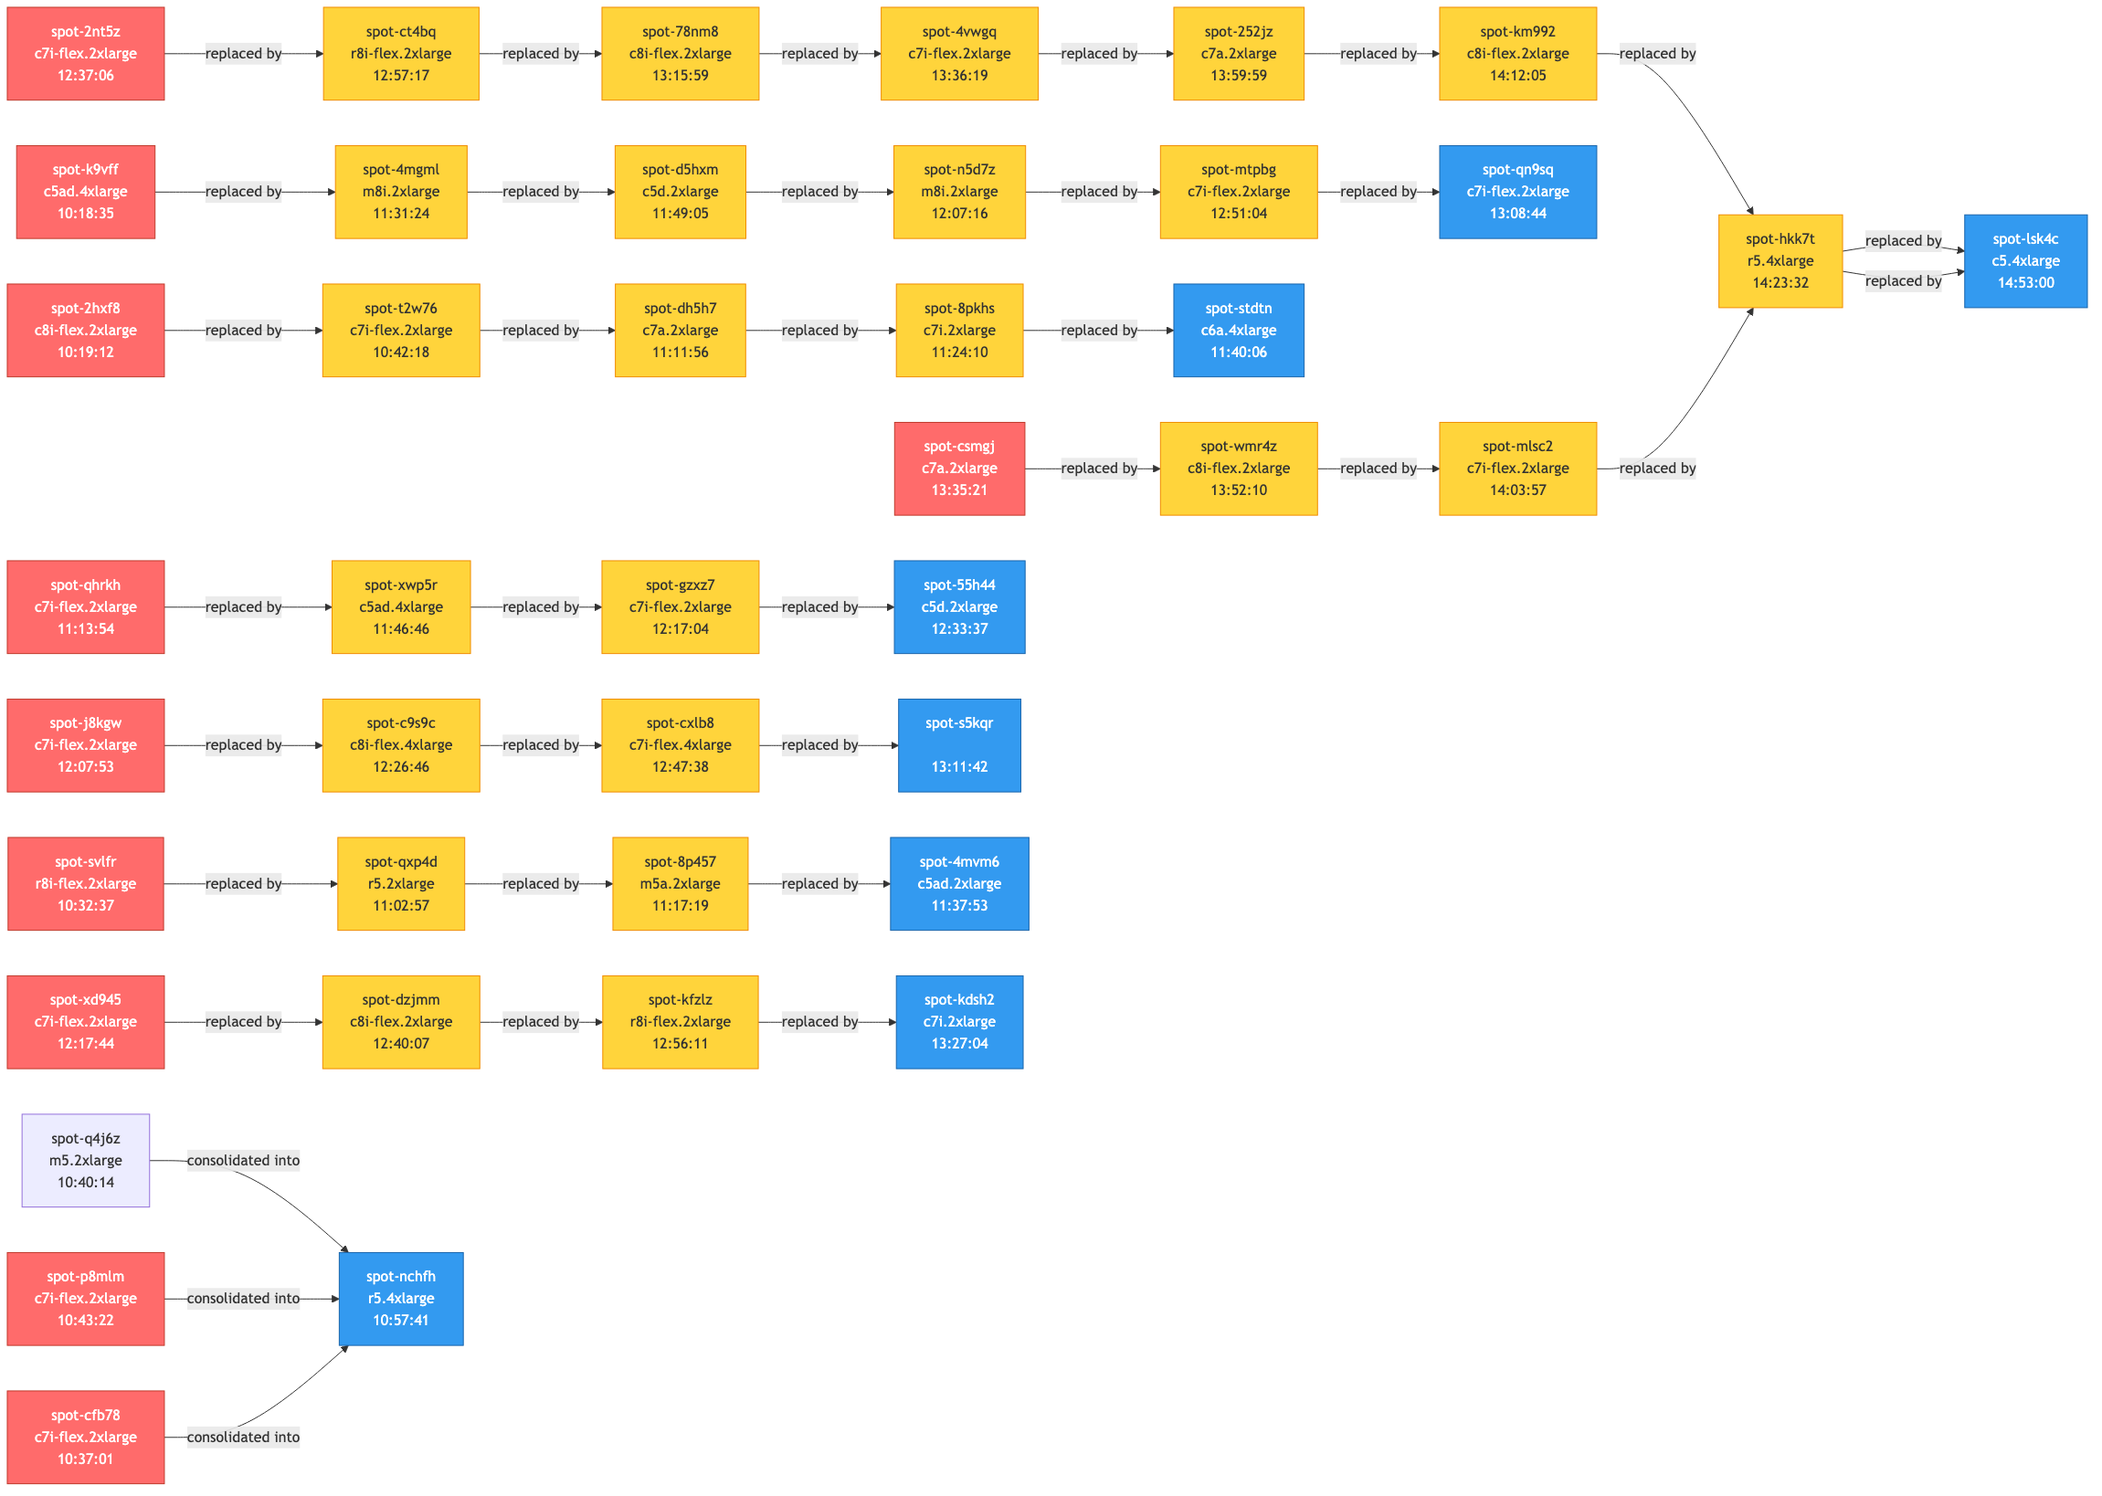
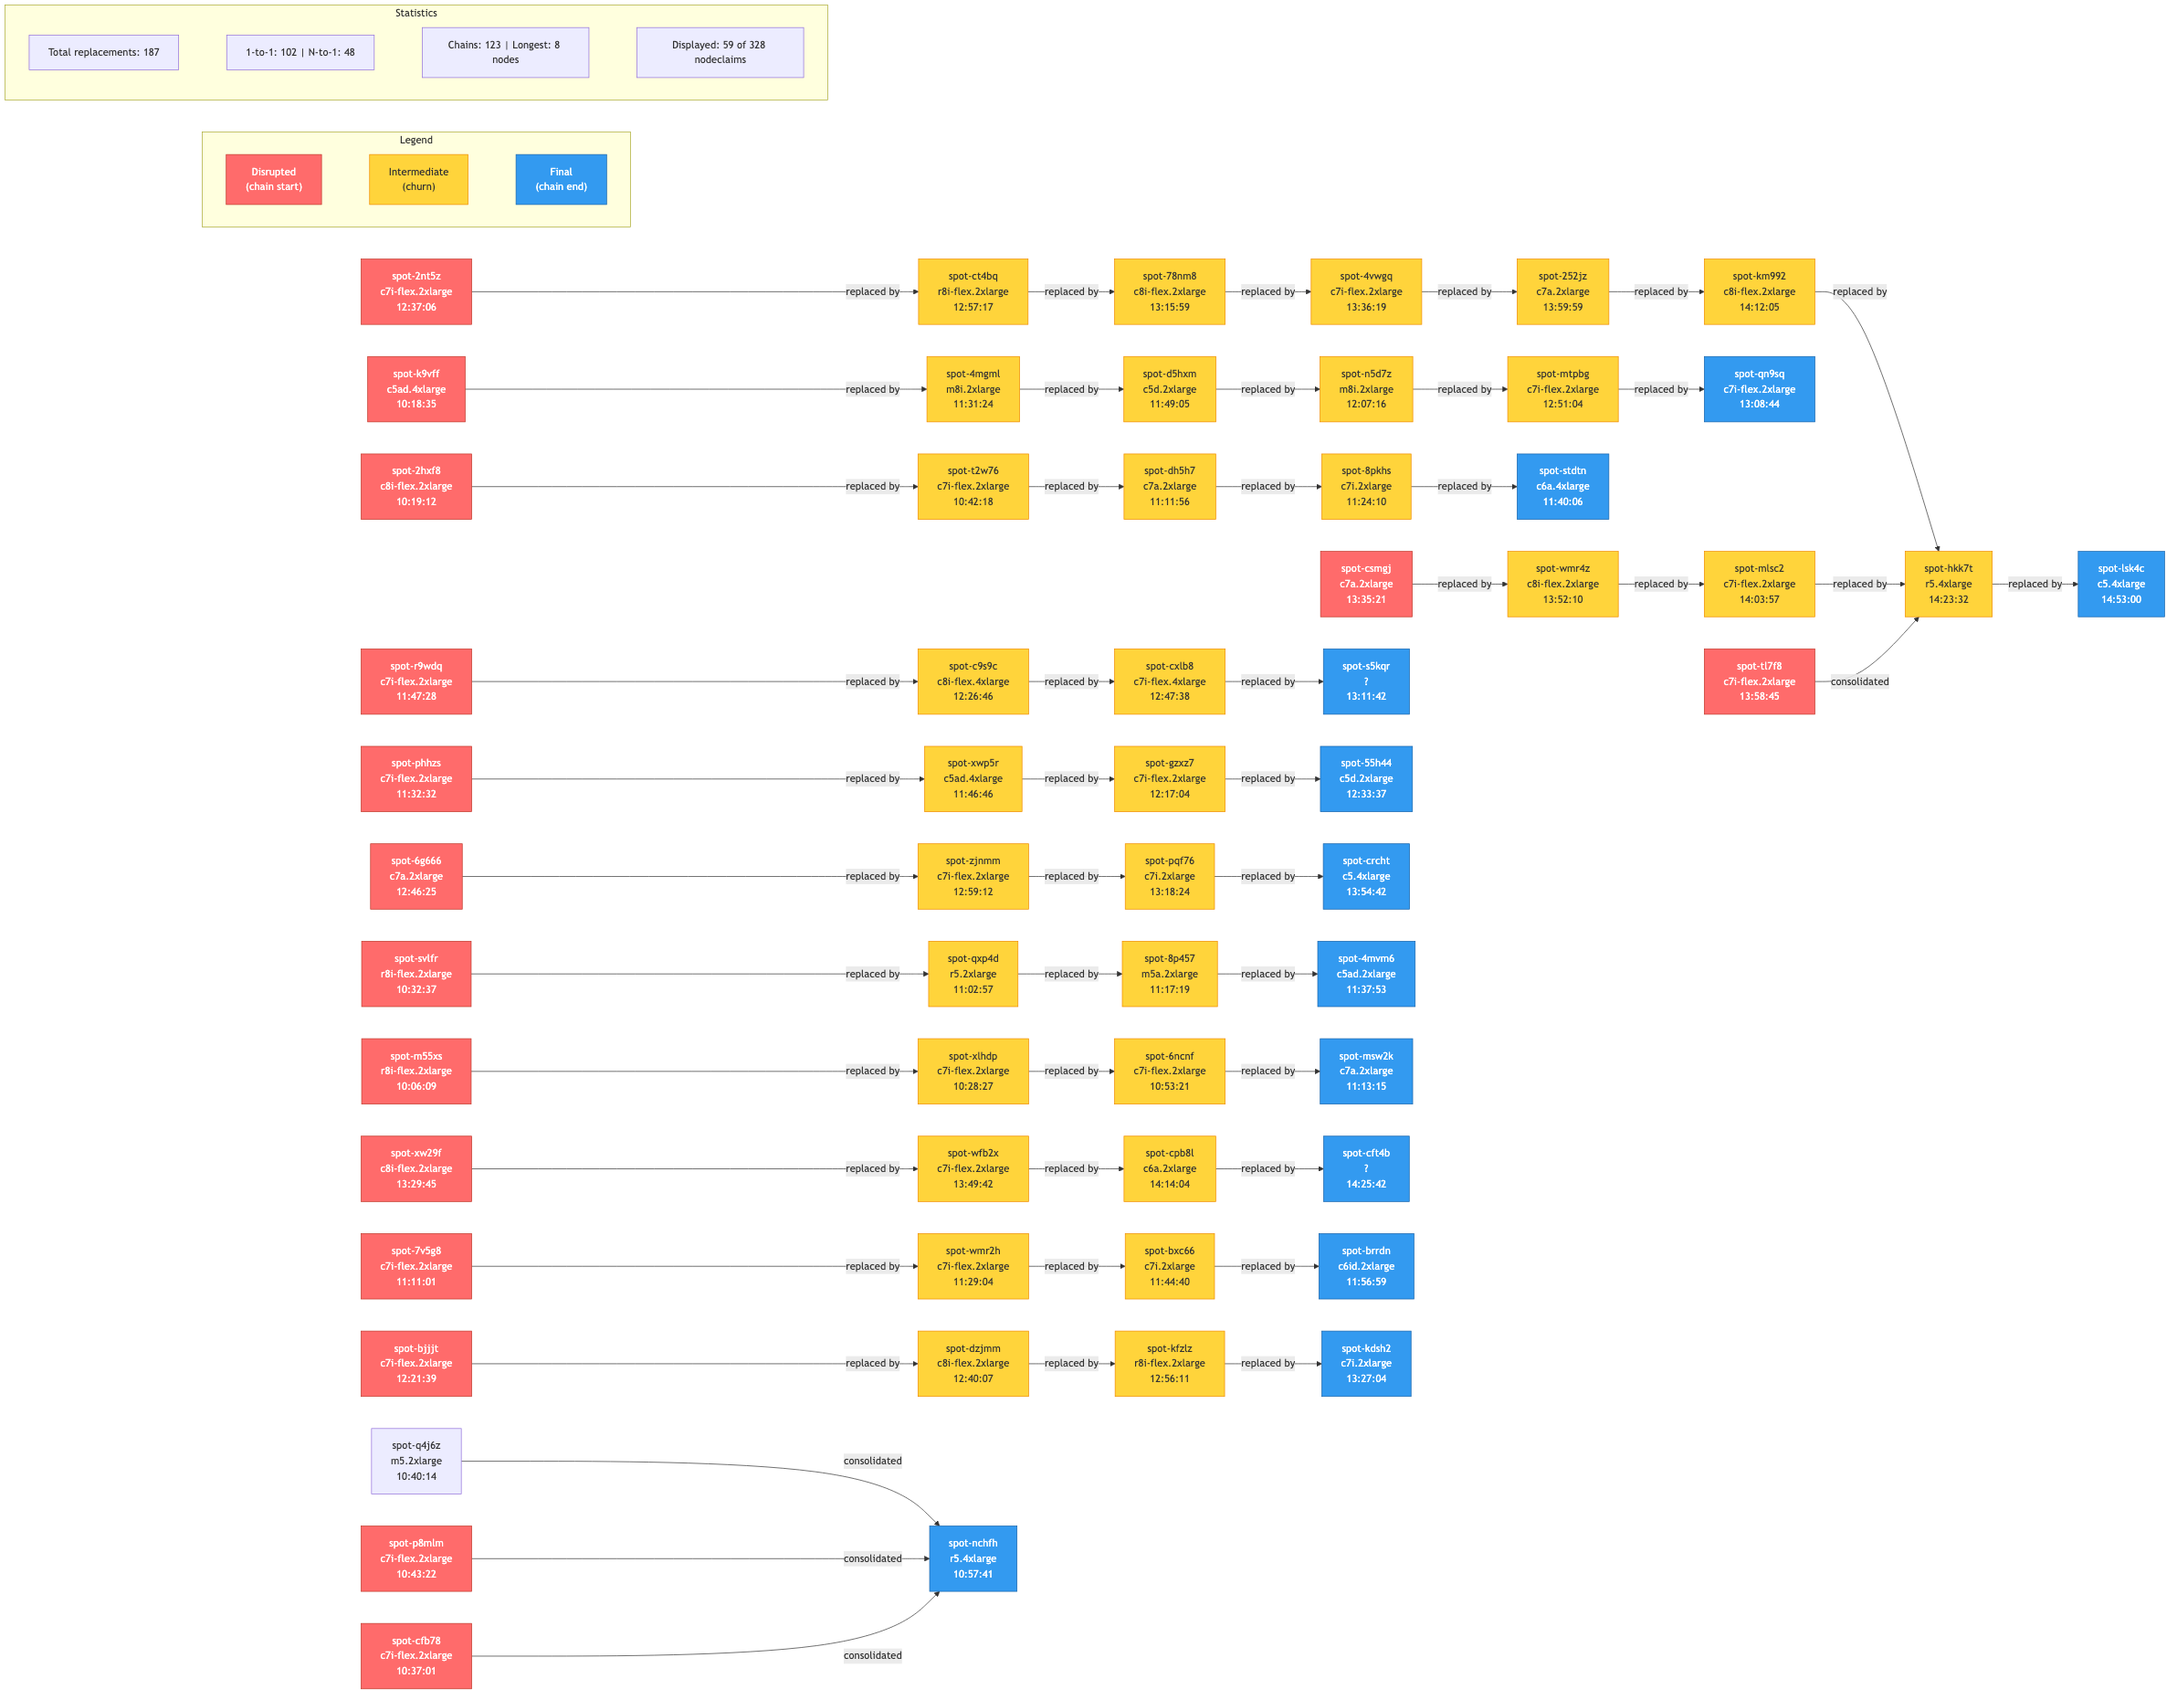
feat: add filtering flags, legend, stats, and edge deduplication to lp4kchain
Add --min-length, --max-chains, and --all flags to control which chains
are displayed. Include a color legend and statistics table in the diagram.
Fix duplicate edges when multiple chains share common segments.
Fix N-to-1 consolidation section to only show genuine multi-source merges.

diff --git a/tools/lp4kchain/main.go b/tools/lp4kchain/main.go
@@ -4,6 +4,7 @@ package main
 
 import (
 	"encoding/csv"
+	"flag"
 	"fmt"
 	"io"
 	"os"
@@ -12,32 +13,45 @@ import (
 )
 
 func main() {
+	minLength := flag.Int("min-length", 3, "minimum chain length to display")
+	maxChains := flag.Int("max-chains", 12, "maximum number of chains to display")
+	showAll := flag.Bool("all", false, "show all replacement chains (overrides --min-length and --max-chains)")
+
+	flag.Usage = func() {
+		fmt.Fprintf(os.Stderr, "Usage: lp4kchain [flags] [lp4k-output.csv] [output.mmd|output.png]\n")
+		fmt.Fprintf(os.Stderr, "\nReads lp4k CSV output and generates a Mermaid diagram of nodeclaim replacement chains.\n")
+		fmt.Fprintf(os.Stderr, "If no input file is given, reads from stdin.\n")
+		fmt.Fprintf(os.Stderr, "If output ends in .png, renders via mmdc (must be installed).\n")
+		fmt.Fprintf(os.Stderr, "If output ends in .mmd or is omitted, writes Mermaid source to stdout or file.\n")
+		fmt.Fprintf(os.Stderr, "\nFlags:\n")
+		flag.PrintDefaults()
+	}
+	flag.Parse()
+
+	if *showAll {
+		*minLength = 1
+		*maxChains = 0
+	}
+
+	// Remaining positional args after flags
+	args := flag.Args()
 	var outputFile string
 	var r io.Reader
 
-	switch len(os.Args) {
-	case 1:
-		// No arguments: read from stdin
+	switch len(args) {
+	case 0:
 		r = os.Stdin
-	case 2:
-		if os.Args[1] == "-h" || os.Args[1] == "--help" {
-			fmt.Fprintf(os.Stderr, "Usage: lp4kchain [lp4k-output.csv] [output.mmd|output.png]\n")
-			fmt.Fprintf(os.Stderr, "\nReads lp4k CSV output and generates a Mermaid diagram of nodeclaim replacement chains.\n")
-			fmt.Fprintf(os.Stderr, "If no input file is given, reads from stdin.\n")
-			fmt.Fprintf(os.Stderr, "If output ends in .png, renders via mmdc (must be installed).\n")
-			fmt.Fprintf(os.Stderr, "If output ends in .mmd or is omitted, writes Mermaid source to stdout or file.\n")
-			os.Exit(0)
-		}
-		r = nil // will open file below
+	case 1:
+		r = nil
 	default:
 		r = nil
-		outputFile = os.Args[2]
+		outputFile = args[1]
 	}
 
 	if r == nil {
-		f, err := os.Open(os.Args[1])
+		f, err := os.Open(args[0])
 		if err != nil {
-			fmt.Fprintf(os.Stderr, "Error opening %s: %v\n", os.Args[1], err)
+			fmt.Fprintf(os.Stderr, "Error opening %s: %v\n", args[0], err)
 			os.Exit(1)
 		}
 		defer f.Close()
@@ -118,12 +132,6 @@ func main() {
 	for nc := range chains {
 		starts[nc] = true
 	}
-	for _, sources := range replacesMap {
-		for _, src := range sources {
-			// keep it as start only if it's not a replacement itself
-			_ = src
-		}
-	}
 	for nc := range replacesMap {
 		delete(starts, nc)
 	}
@@ -165,25 +173,27 @@ func main() {
 	mmd.WriteString("\n")
 
 	seen := make(map[string]bool)
+	seenEdges := make(map[string]bool)
 	shownChains := 0
-	maxChains := 12
 
 	for _, c := range allChains {
-		if len(c.nodes) < 3 {
+		if len(c.nodes) < *minLength {
 			continue
 		}
-		if shownChains >= maxChains {
+		if *maxChains > 0 && shownChains >= *maxChains {
 			break
 		}
-		// Skip if too much overlap with already shown nodes
-		overlap := 0
-		for _, nc := range c.nodes {
-			if seen[nc] {
-				overlap++
+		// Skip if too much overlap with already shown nodes (unless --all)
+		if !*showAll {
+			overlap := 0
+			for _, nc := range c.nodes {
+				if seen[nc] {
+					overlap++
+				}
 			}
-		}
-		if overlap > len(c.nodes)/2 {
-			continue
+			if overlap > len(c.nodes)/2 {
+				continue
+			}
 		}
 
 		shownChains++
@@ -208,18 +218,42 @@ func main() {
 		}
 
 		for i := 0; i < len(c.nodes)-1; i++ {
-			mmd.WriteString(fmt.Sprintf("    %s -->|replaced by| %s\n", c.nodes[i], c.nodes[i+1]))
+			edgeKey := c.nodes[i] + "->" + c.nodes[i+1]
+			if !seenEdges[edgeKey] {
+				mmd.WriteString(fmt.Sprintf("    %s -->|replaced by| %s\n", c.nodes[i], c.nodes[i+1]))
+				seenEdges[edgeKey] = true
+			}
 		}
 		mmd.WriteString("\n")
 	}
 
-	// Show N-to-1 consolidations (3+ sources)
+	// Show N-to-1 consolidations (only genuine multi-source merges not already shown in chains)
+	nTo1Limit := 4
+	if *showAll {
+		nTo1Limit = 0
+	}
 	nTo1Shown := 0
 	for nc, sources := range replacesMap {
-		if len(sources) < 3 || seen[nc] {
+		if len(sources) < 2 {
 			continue
 		}
-		if nTo1Shown >= 4 {
+		if !*showAll && len(sources) < 3 {
+			continue
+		}
+		// Skip if all nodes involved are already displayed in chains
+		if seen[nc] {
+			allSourcesSeen := true
+			for _, src := range sources {
+				if !seen[src] {
+					allSourcesSeen = false
+					break
+				}
+			}
+			if allSourcesSeen {
+				continue
+			}
+		}
+		if nTo1Limit > 0 && nTo1Shown >= nTo1Limit {
 			break
 		}
 		nTo1Shown++
@@ -233,8 +267,10 @@ func main() {
 		if len(info.createdTime) >= 19 {
 			ctime = info.createdTime[11:19]
 		}
-		mmd.WriteString(fmt.Sprintf("    %s[\"%s<br/>%s<br/>%s\"]\n", nc, nc, itype, ctime))
-		seen[nc] = true
+		if !seen[nc] {
+			mmd.WriteString(fmt.Sprintf("    %s[\"%s<br/>%s<br/>%s\"]\n", nc, nc, itype, ctime))
+			seen[nc] = true
+		}
 
 		for _, src := range sources {
 			if seen[src] {
@@ -253,7 +289,11 @@ func main() {
 				sitype = "?"
 			}
 			mmd.WriteString(fmt.Sprintf("    %s[\"%s<br/>%s<br/>%s\"]\n", src, src, sitype, sctime))
-			mmd.WriteString(fmt.Sprintf("    %s -->|consolidated| %s\n", src, nc))
+			edgeKey := src + "->" + nc
+			if !seenEdges[edgeKey] {
+				mmd.WriteString(fmt.Sprintf("    %s -->|consolidated| %s\n", src, nc))
+				seenEdges[edgeKey] = true
+			}
 			seen[src] = true
 		}
 		mmd.WriteString("\n")
@@ -276,6 +316,49 @@ func main() {
 		}
 	}
 
+	// Statistics
+	totalReplacements := len(chains)
+	oneToOne := 0
+	nToOne := 0
+	for _, sources := range replacesMap {
+		if len(sources) == 1 {
+			oneToOne++
+		} else {
+			nToOne++
+		}
+	}
+	totalChains := len(allChains)
+	longestChain := 0
+	if len(allChains) > 0 {
+		longestChain = len(allChains[0].nodes)
+	}
+	displayedEdges := 0
+	for _, c := range allChains {
+		for _, nc := range c.nodes {
+			if seen[nc] {
+				displayedEdges++
+			}
+		}
+	}
+
+	// Legend and statistics subgraph
+	mmd.WriteString("\n    %% Legend and Statistics\n")
+	mmd.WriteString("    subgraph Legend\n")
+	mmd.WriteString("        direction LR\n")
+	mmd.WriteString("        L1[\"Disrupted\\n(chain start)\"]:::disrupted\n")
+	mmd.WriteString("        L2[\"Intermediate\\n(churn)\"]:::intermediate\n")
+	mmd.WriteString("        L3[\"Final\\n(chain end)\"]:::final\n")
+	mmd.WriteString("        L1 ~~~ L2 ~~~ L3\n")
+	mmd.WriteString("    end\n")
+	mmd.WriteString("    subgraph Statistics\n")
+	mmd.WriteString("        direction LR\n")
+	mmd.WriteString(fmt.Sprintf("        S1[\"Total replacements: %d\"]\n", totalReplacements))
+	mmd.WriteString(fmt.Sprintf("        S2[\"1-to-1: %d | N-to-1: %d\"]\n", oneToOne, nToOne))
+	mmd.WriteString(fmt.Sprintf("        S3[\"Chains: %d | Longest: %d nodes\"]\n", totalChains, longestChain))
+	mmd.WriteString(fmt.Sprintf("        S4[\"Displayed: %d of %d nodeclaims\"]\n", len(seen), len(nodes)))
+	mmd.WriteString("        S1 ~~~ S2 ~~~ S3 ~~~ S4\n")
+	mmd.WriteString("    end\n")
+
 	mermaidContent := mmd.String()
 
 	// Output
@@ -290,7 +373,7 @@ func main() {
 			fmt.Fprintf(os.Stderr, "Written Mermaid source to %s\n", outputFile)
 		}
 	} else if strings.HasSuffix(outputFile, ".png") || strings.HasSuffix(outputFile, ".svg") || strings.HasSuffix(outputFile, ".pdf") {
-		// Write temp .mmd file, then invoke mmdc
+		// Write .mmd file, then invoke mmdc
 		mmdPath := strings.TrimSuffix(outputFile, ".png")
 		mmdPath = strings.TrimSuffix(mmdPath, ".svg")
 		mmdPath = strings.TrimSuffix(mmdPath, ".pdf")

diff --git a/README.md b/README.md
@@ -186,11 +186,29 @@ Then run it like:
 ./bin/lp4kchain lp4k-output.csv output.png
 ```
 
+**Options:**
+
+| Flag | Default | Description |
+|---|---|---|
+| `--min-length` | 3 | Minimum chain length to display |
+| `--max-chains` | 12 | Maximum number of chains to display |
+| `--all` | false | Show all replacement chains (overrides `--min-length` and `--max-chains`) |
+
+```bash
+# Show all chains including short 1-to-1 replacements
+./bin/lp4kchain --all lp4k-output.csv output.png
+
+# Show chains with at least 4 nodes, up to 20 chains
+./bin/lp4kchain --min-length 4 --max-chains 20 lp4k-output.csv output.png
+```
+
 The diagram shows:
 - **Red nodes** — initial disrupted nodeclaims (chain start)
 - **Yellow nodes** — intermediate nodeclaims (replaced and are themselves replacements = churn)
 - **Blue nodes** — final nodeclaims (end of chain, still running)
-- **N-to-1 consolidations** — multiple nodes merged into one
+- **N-to-1 consolidations** — multiple nodes consolidated into one (arrow label: "consolidated")
+
+A legend and statistics table are included in the diagram showing total replacements, 1-to-1 vs N-to-1 counts, and how many nodeclaims are displayed out of the total.
 
 See [doc/lp4kchain-install.md](doc/lp4kchain-install.md) for mmdc installation instructions.
 
